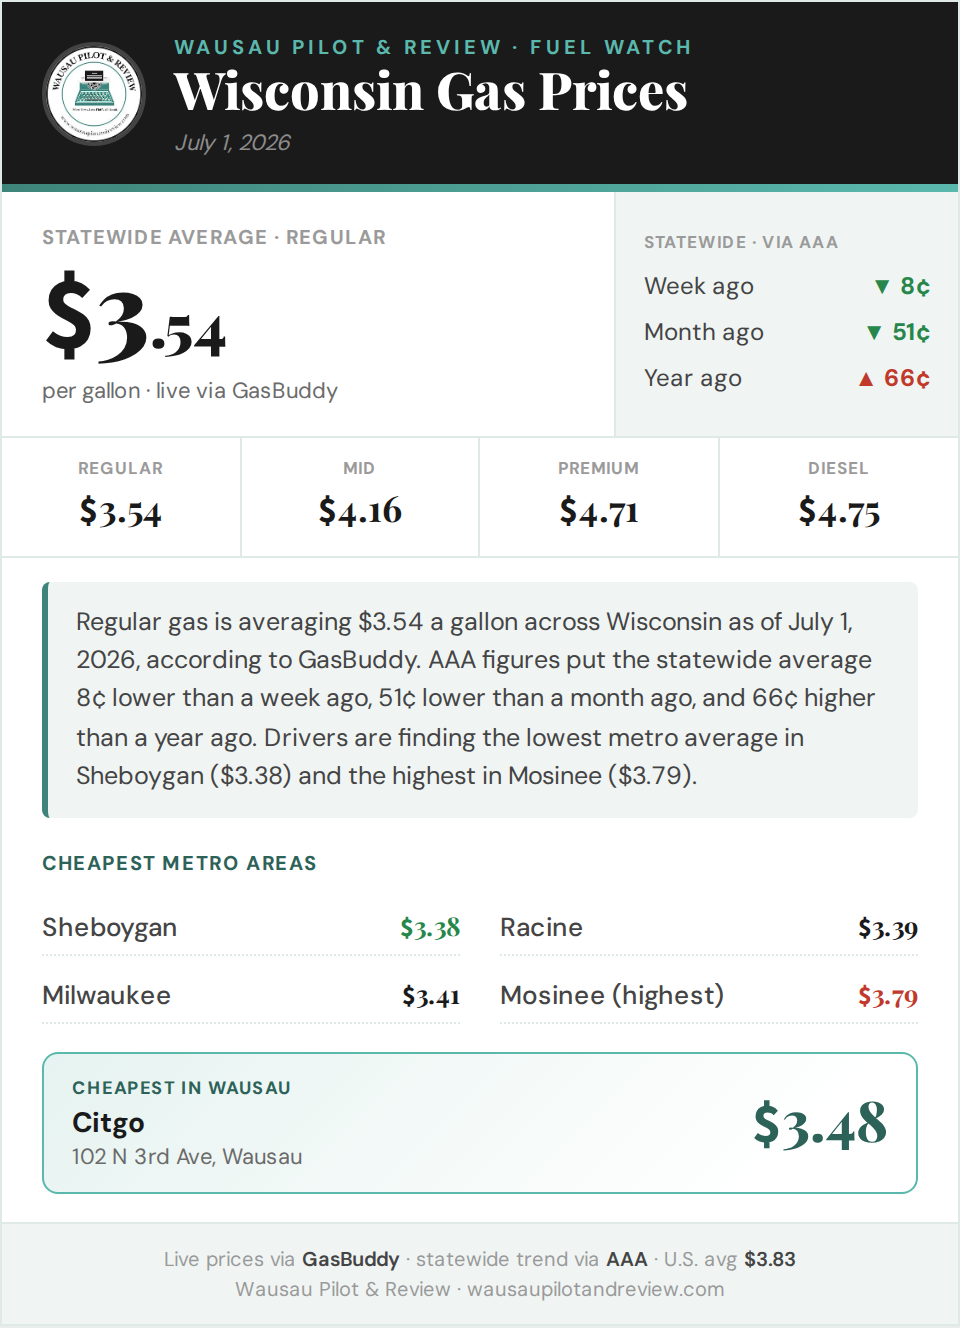
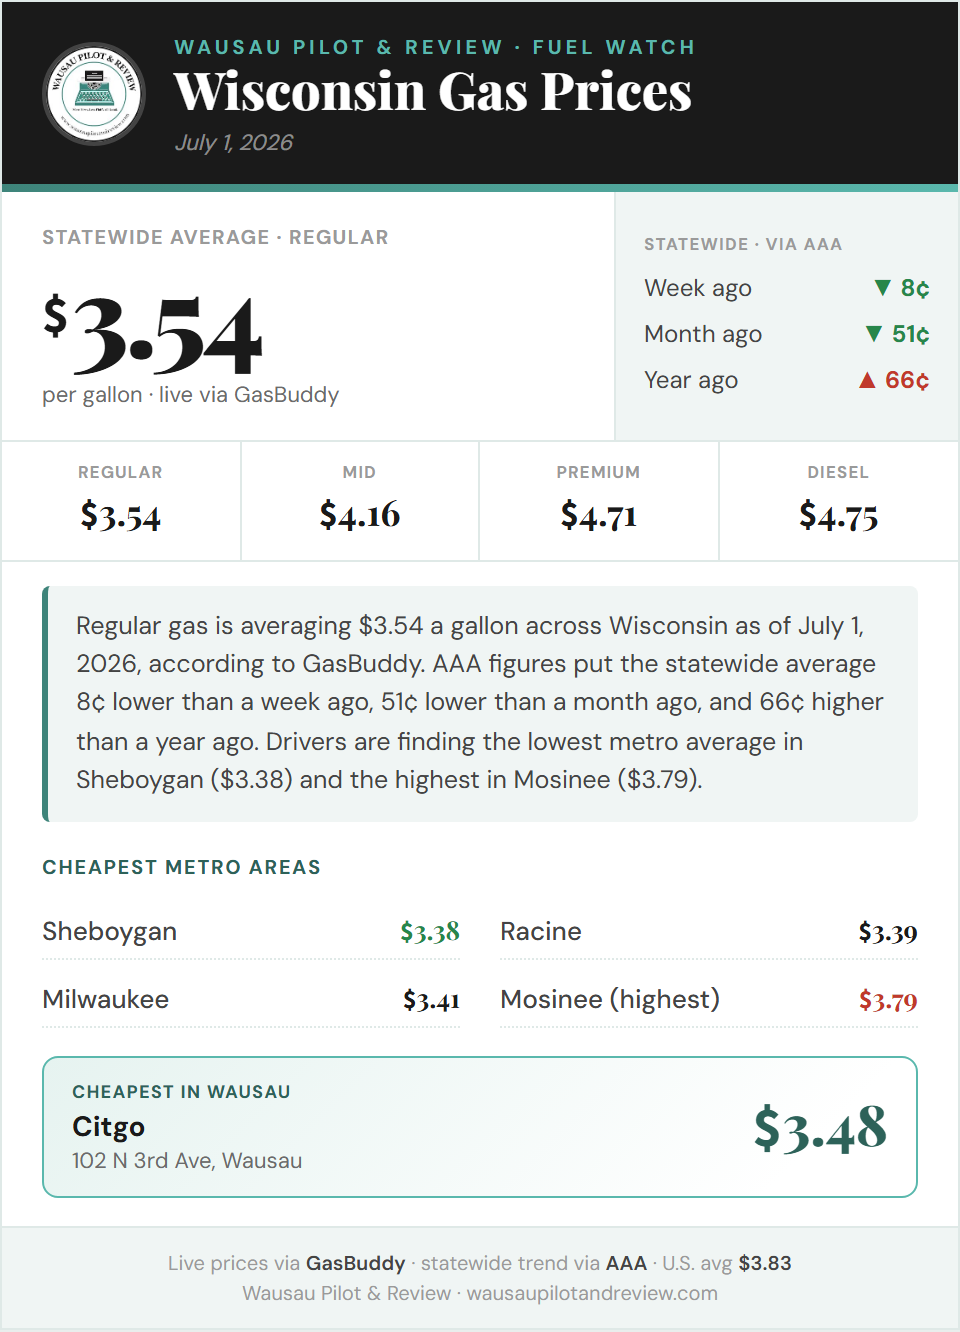
Polish digest: cleaner hero number + branded centered CTA button
- Hero statewide average now uses uniform-size digits with a smaller raised dollar
  sign (was shrinking the cents, which looked unbalanced). Re-rendered digest.png.
- Newsletter CTA is now a centered, brand-teal button (table-wrapped align=center for
  bulletproof email centering) instead of a plain left-drifting text link.

diff --git a/docs/digest.html b/docs/digest.html
@@ -34,9 +34,9 @@
   .dg-hero { display:flex; align-items:stretch; border-bottom:1px solid var(--rule); }
   .dg-hero-main { flex:1; padding:16px 20px; }
   .dg-hero-label { font-size:10px; font-weight:700; letter-spacing:0.6px; text-transform:uppercase; color:var(--ink-faint); }
-  .dg-hero-value { font-family:'Playfair Display',Georgia,serif; font-size:52px; font-weight:900; line-height:1; margin-top:2px; }
-  .dg-hero-value .cent { font-size:30px; }
-  .dg-hero-sub { font-size:11px; color:var(--ink-light); margin-top:4px; }
+  .dg-hero-value { font-family:'Playfair Display',Georgia,serif; font-size:56px; font-weight:900; line-height:1; margin-top:3px; letter-spacing:-1.5px; }
+  .dg-hero-value .dg-cur { font-family:'Source Sans 3',sans-serif; font-size:0.46em; font-weight:700; vertical-align:0.5em; letter-spacing:0; margin-right:1px; }
+  .dg-hero-sub { font-size:11px; color:var(--ink-light); margin-top:6px; }
   .dg-dollar { font-family:'Source Sans 3',sans-serif; }
 
   .dg-trend { width:172px; background:var(--paper-warm); border-left:1px solid var(--rule); padding:12px 14px; display:flex; flex-direction:column; justify-content:center; gap:7px; }
@@ -95,7 +95,7 @@
 
   function money(d) { var c = Math.round(Math.abs(d) * 100); return c >= 100 ? '$' + (c / 100).toFixed(2) : c + '¢'; }
   function price(p) { return '<span class="dg-dollar">$</span>' + p.toFixed(2); }
-  function heroPrice(p) { var s = p.toFixed(2).split('.'); return '<span class="dg-dollar">$</span>' + s[0] + '<span class="cent">.' + s[1] + '</span>'; }
+  function heroPrice(p) { return '<span class="dg-cur">$</span>' + p.toFixed(2); }
 
   function longDate(mmddyy) {
     var m = /^(\d{2})\/(\d{2})\/(\d{2})$/.exec(mmddyy || '');

diff --git a/README.md b/README.md
@@ -131,9 +131,12 @@ tracker:
   <img src="https://rowanflynnpilot.github.io/wpr-gas-prices/digest.png"
        alt="Wisconsin gas prices" width="480" style="max-width:100%;height:auto;border:0;">
 </a>
-<p style="text-align:center;margin:8px 0 0;font-family:Arial,sans-serif;font-size:14px;">
-  <a href="https://wausaupilotandreview.com/wausau-gas-price-tracker/">Access the full gas price tracker here</a>
-</p>
+<table role="presentation" width="100%" cellpadding="0" cellspacing="0" style="margin:14px 0 0;">
+  <tr><td align="center">
+    <a href="https://wausaupilotandreview.com/wausau-gas-price-tracker/"
+       style="display:inline-block;padding:12px 28px;background:#3e847a;color:#ffffff;font-family:Arial,Helvetica,sans-serif;font-size:15px;font-weight:bold;line-height:1;text-decoration:none;border-radius:6px;">Access the full gas price tracker&nbsp;&rarr;</a>
+  </td></tr>
+</table>
 ```
 
 The image is regenerated on every scheduled run (via a headless Chromium screenshot of
